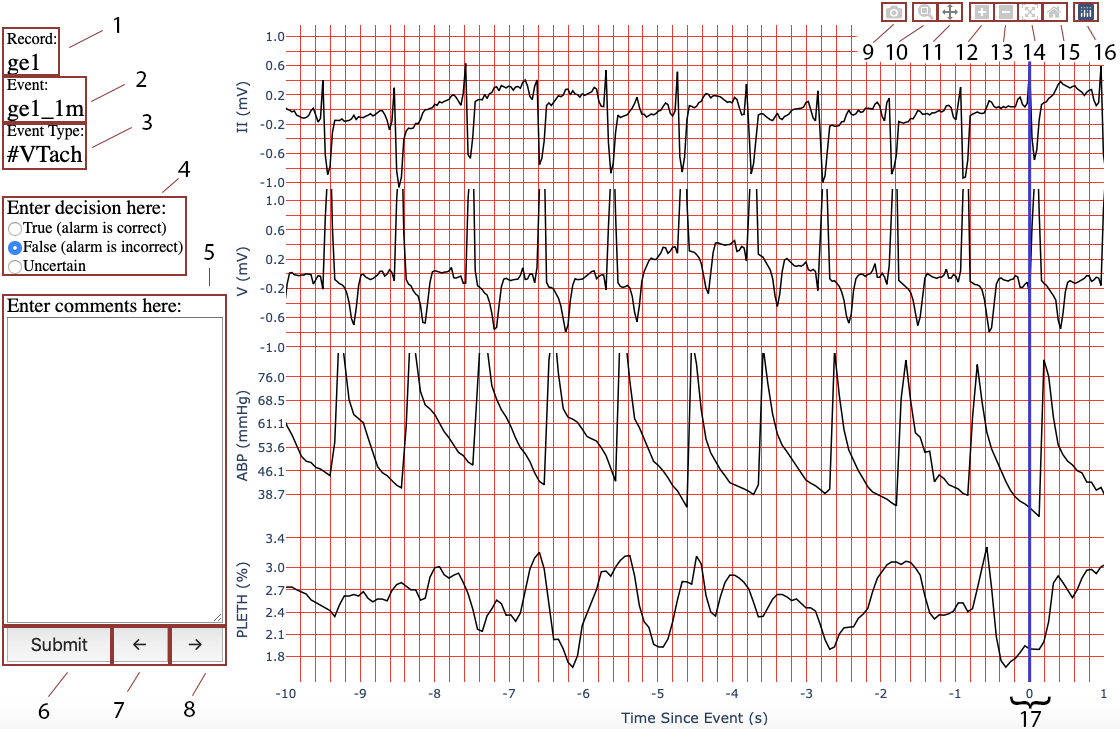
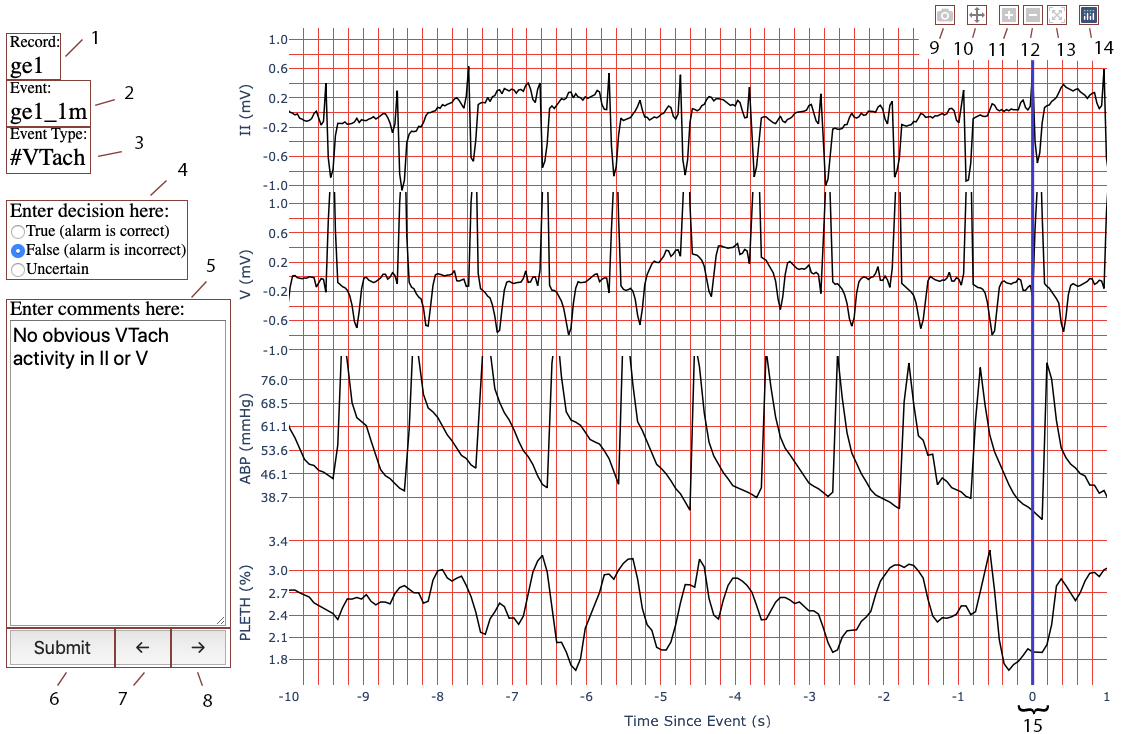
Updates tutorial page

diff --git a/waveform-django/waveforms/templates/waveforms/tutorial.html b/waveform-django/waveforms/templates/waveforms/tutorial.html
@@ -35,14 +35,12 @@
         <li>Annotation decision</li>
         <li>Annotator comments</li>
         <li>Submit new annotation for this record and event</li>
-        <li>Go to the previous annotation without saving</li>
-        <li>Go to the next annotation without saving</li>
+        <li>Go to the previous annotation without saving annotation decision and comments</li>
+        <li>Go to the next annotation without saving annotation decision and comments</li>
         <li>Download the current screen (only plotted signals, not sidebar) as a PNG image</li>
-        <li>Zoom in on a desired segment (click and hold at the start, drag to the end and release click)</li>
-        <li>Pan across signal to view different ranges (click and hold anywhere, drag to the right to move the signal to the right / move backwards in time)</li>
+        <li>Pan across signal to view different ranges (click and hold anywhere, drag to the right to move the signal to the right / move backwards in time, drag upwards or downwards to view upper and lower portions of the signal)</li>
         <li>Zoom in (roughly by a factor of two each time)</li>
         <li>Zoom out (roughly by a factor of two each time)</li>
-        <li>View the entire signal</li>
         <li>View the entire signal</li>
         <li>Go to the Plotly website which is the foundation of this plot</li>
         <li>The vertical blue line represents the timestamp of the alarm annotation</li>
